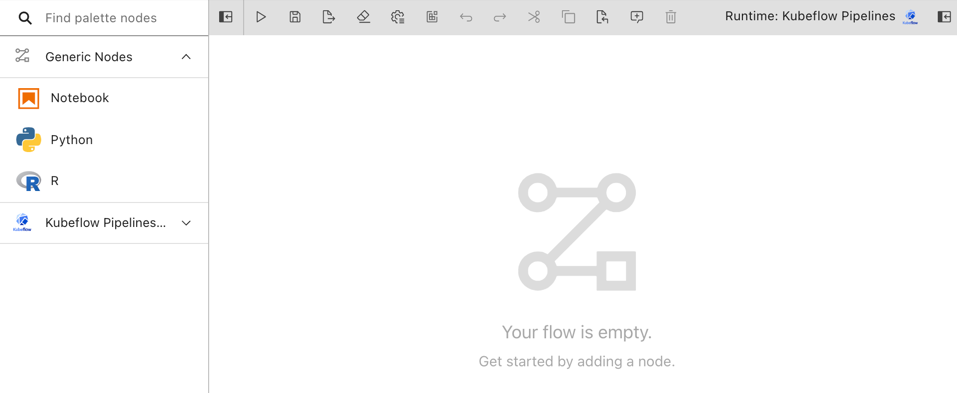
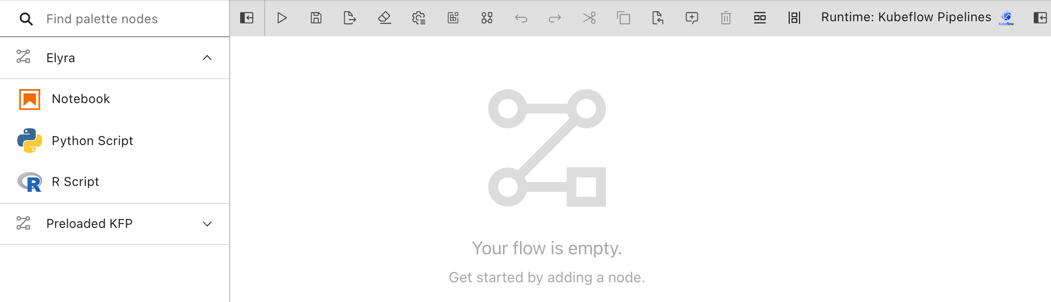
Add UI and CLI instructions and properties reference

diff --git a/docs/source/user_guide/pipeline-components.md b/docs/source/user_guide/pipeline-components.md
@@ -40,7 +40,7 @@ There are many example custom components available that you can utilize in pipel
 
 #### Example custom components
 
-For illustrative purposes the Elyra component registry includes a few custom components that you can use to get started. 
+For illustrative purposes the Elyra component registry includes a few custom components that you can use to get started. These example components and the generic components are pre-loaded into the pipeline editor palette by default.
 
 ![Example pipeline for the HTTP component](../images/user_guide/pipeline-components/example-components-pipeline.png)
 
@@ -50,21 +50,25 @@ Component details and demo pipelines can be found in the `https://github.com/ely
 
 Note that example components are provided as is. Unless indicated otherwise they are not maintained by the Elyra community.
 
+### Managing pipeline components
+
+Components are managed in Elyra using the [JupyterLab UI](#managing-custom-components-using-the-jupyterlab-ui) or the [Elyra command line interface](#managing-custom-components-using-the-elyra-cli).
+
 ### Managing custom components using the JupyterLab UI
 
-Custom components can be added, modified, and removed in the _Custom Components_ panel.
+Custom components can be added, modified, and removed in the _Pipeline Components_ panel.
 
-![Runtime components UI](../images/user_guide/pipeline-components/pipeline-components-ui.png)
+![Pipeline components UI](../images/user_guide/pipeline-components/pipeline-components-ui.png)
 
 To access the panel in JupyterLab:
 
-- Click the `Open Component Registry` button in the pipeline editor toolbar.
+- Click the `Open Pipeline Components` button in the pipeline editor toolbar.
 
   ![Open panel from pipeline editor toolbar](../images/user_guide/pipeline-components/toolbar-manage-button.png)     
 
   OR     
 
-- Select the `Component Registry` panel from the JupyterLab sidebar.
+- Select the `Pipeline Components` tab from the JupyterLab sidebar.
 
   ![Open panel from sidebar](../images/user_guide/pipeline-components/sidebar-button.png)     
 
@@ -74,14 +78,146 @@ To access the panel in JupyterLab:
 
   ![Open panel from command palette](../images/user_guide/pipeline-components/cmd-palette.png)
 
-#### Adding a component to the registry
+#### Adding components to the registry
 
-This feature is currently not available.
+To add a component registry entry: 
 
-#### Modifying a component
+1. Click `+` in the _Pipeline Components_ panel.
+1. Define the registry entry. Refer to section [Configuration properties](#configuration-properties) for a description of each property.
 
-This feature is currently not available.
+If the registry entry validates correctly, the associated pipeline components are added  to the pipeline editor's palette. 
 
-#### Deleting a component from the registry
+#### Modifying a component registry entry
 
-This feature is currently not available.
+1. Click the `edit` (pencil) icon next to the entry name.
+1. Modify the registry entry as desired.
+
+#### Deleting components from the registry
+
+To delete a component registry entry and its referenced component(s) from the Visual Pipeline Editor palette:
+
+1. Click the `delete` (trash) icon next to the entry name.
+1. Confirm deletion.
+
+Caution: Pipelines that utilize the referenced components are no longer valid after the component registry entry was deleted.
+
+### Managing custom components using the Elyra CLI
+
+Custom components can be added, modified, and removed using the [`elyra-metadata` command line interface](/user_guide/command-line-interface.md).
+
+To list component registry entries:
+
+```bash
+$ elyra-metadata list component-registries
+
+Available metadata instances for component-registries (includes invalid):
+
+Schema               Instance                          Resource                                                                                                        
+------               --------                          --------                                                                                                        
+component-registry   elyra-airflow-filename-preconfig  .../jupyter/metadata/component-registries/elyra-airflow-filename-preconfig.json   
+```
+
+#### Adding components to the registry
+
+To add a component registry entry run `elyra-metadata install component-registries`.
+
+```bash
+$ elyra-metadata install component-registries \
+       --display_name="filter components" \
+       --description="filter text in files" \
+       --runtime=kfp \
+       --location_type=URL \
+       --paths="['https://raw.githubusercontent.com/elyra-ai/elyra/master/etc/config/components/kfp/filter_text_using_shell_and_grep.yaml']" \
+       --categories='["filter file content"]'
+```
+
+Refer to section [Configuration properties](#configuration-properties) for a parameter description.
+
+#### Modifying a component registry entry
+
+To replace a component registry entry run `elyra-metadata install component-registries` and specify the `--replace` option:
+
+```bash
+$ elyra-metadata install component-registries \
+       --name="filter_components" \
+       --display_name="filter components" \
+       --description="filter text in files" \
+       --runtime=kfp \
+       --location_type=URL \
+       --paths="['https://raw.githubusercontent.com/elyra-ai/elyra/master/etc/config/components/kfp/filter_text_using_shell_and_grep.yaml']" \
+       --categories='["file operations"]' \
+       --replace
+```
+
+Note: You must specify all property values, not only the ones that you want to modify.
+
+Refer to section [Configuration properties](#configuration-properties) for a parameter description.
+
+#### Deleting components from the registry
+
+To delete a component registry entry and its component definitions:
+
+```bash
+$ elyra-metadata remove component-registries \
+       --name="filter_components"
+```
+
+Refer to section [Configuration properties](#configuration-properties) for a parameter description.
+
+### Configuration properties
+
+The component registry entry properties are defined as follows. The string in the headings below, which is enclosed in parentheses, denotes the CLI option name.
+
+##### Name (display_name)
+
+A user-friendly name for the registry entry. Note that the registry entry name is not displayed in the palette. This property is required.
+
+Example: `data load components`
+
+##### N/A (name)
+
+A unique identifier for this registry entry. A value is generated from `Name` if no value is provided.
+
+Example: `data_load_components`
+
+##### Description (description)
+
+A description for the registry entry.
+
+Example: `Load data from external data sources`
+
+##### Category (categories)
+
+In the pipeline editor palette components are grouped into categories to make them more easily accessible. If no category is provided, the components defined by this registry entry are added to the palette under `no category`.  
+
+Examples (CLI):
+
+- `['load data from database']`
+- `['train model','pytorch']`
+
+
+##### Runtime (runtime)
+
+The runtime environment that supports the component(s). Valid values are `kfp` and `airflow`. This property is required.
+
+Example:
+
+- `airflow`
+
+##### Location Type (location_type)
+
+The location type identifies the format that the value(s) provided in `Paths` represent. Supported types are `URL`, `Filename`, or `Directory`. This property is required.
+
+##### Paths (paths)
+
+A path identifies the location from where Elyra can retrieve one or more component specifications. The provided value must be a valid representation of the selected _location type_. This property is required.
+
+Examples (GUI):
+ - URL: `https://raw.githubusercontent.com/elyra-ai/elyra/master/etc/config/components/kfp/run_notebook_using_papermill.yaml`
+ - Filename: `load_data_from_public_source/http_operator.py`
+ - Directory path: `load_from_database`
+
+ Examples (CLI):
+ - URL: `['https://raw.githubusercontent.com/elyra-ai/elyra/master/etc/config/components/kfp/run_notebook_using_papermill.yaml']`
+ - Filename: `['load_data_from_public_source/http_operator.py']`
+ - Directory path: `['load_from_database']` 

diff --git a/docs/source/user_guide/command-line-interface.md b/docs/source/user_guide/command-line-interface.md
@@ -75,6 +75,7 @@ Refer to the topics below for detailed information on how to use `elyra-metadata
  - [Manage code snippets](code-snippets.html#managing-code-snippets-using-the-elyra-cli)
  - [Manage runtime configurations](runtime-conf.html#managing-runtime-configurations-using-the-elyra-cli)
  - [Manage runtime images](runtime-image-conf.html#managing-runtime-images-with-the-command-line-interface)
+ - [Manage pipeline components](pipeline-components.html#managing-custom-components-using-the-elyra-cli)
 
 ### Working with pipelines
 
